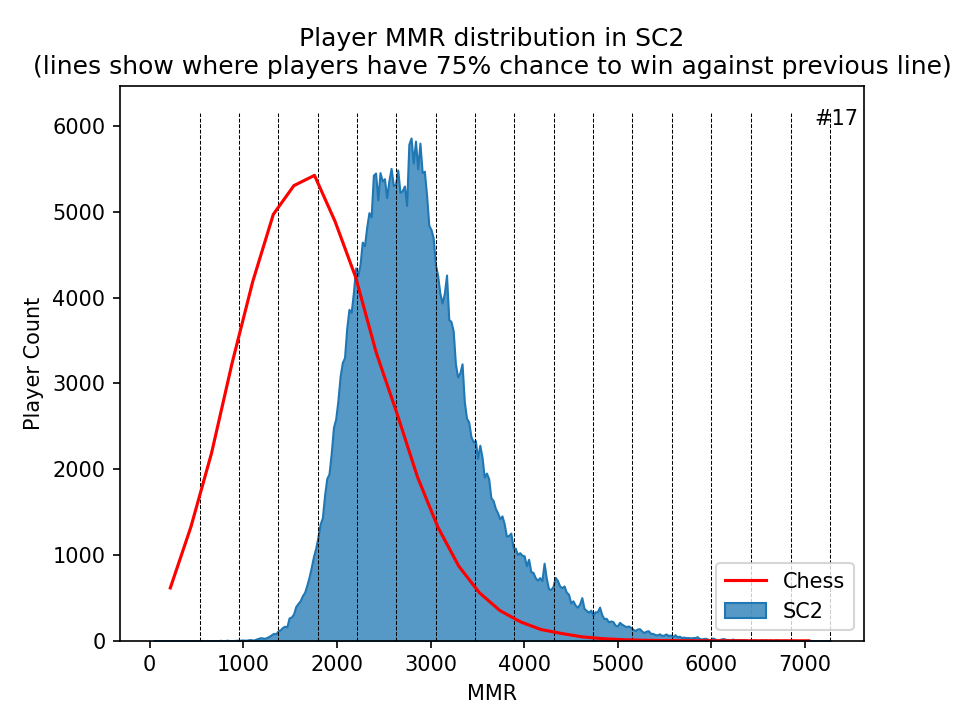
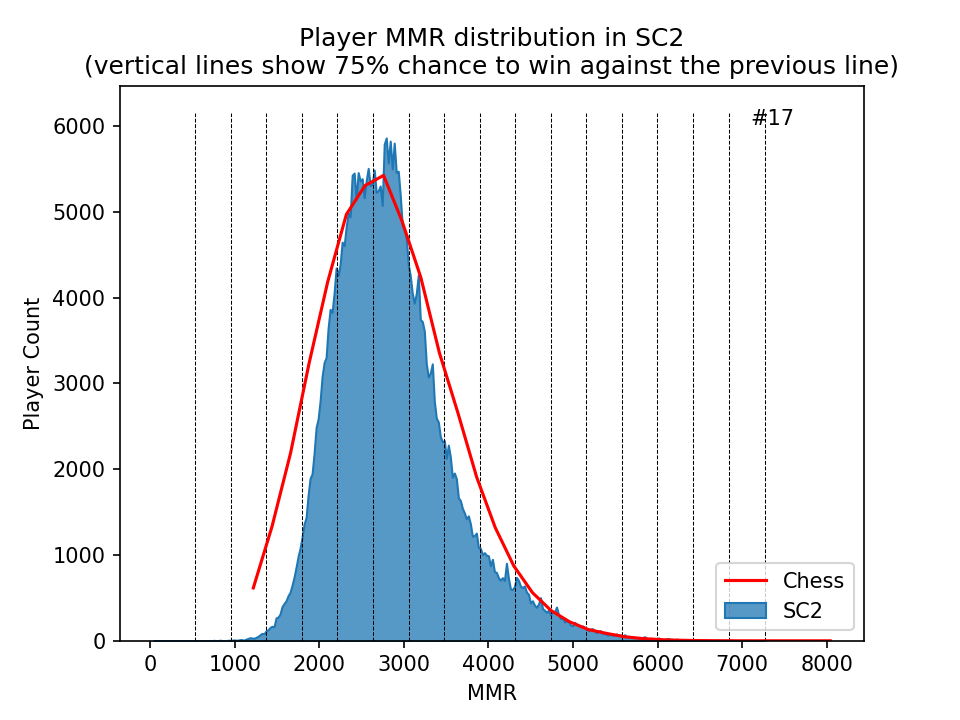
offset for chess

diff --git a/mmr.py b/mmr.py
@@ -78,15 +78,15 @@ def plot_scaling(data):
     plt.xlabel("MMR")
     plt.ylabel("Player Count")
     plt.title(
-        "Player MMR distribution in SC2\n(lines show where players have 75% chance to win against previous line)"
+        "Player MMR distribution in SC2\n(vertical lines show 75% chance to win against the previous line)"
     )
     plt.text(plt.xlim()[1] * 0.93, plt.ylim()[1] * 0.93, f"#{lines}")
 
     # chess
-    cx, cy = np.array(list(chess_data.keys())),  np.array(list(chess_data.values()))
-    plt.plot(cx*2.2, cy/250, label="Chess", color='r')
+    cx, cy = np.array(list(chess_data.keys())), np.array(
+        list(chess_data.values()))
+    plt.plot(cx * 2.2 + 1000, cy / 250, label="Chess", color='r')
     plt.legend()
-
     plt.savefig("mmr_scaling.png")
 
 
